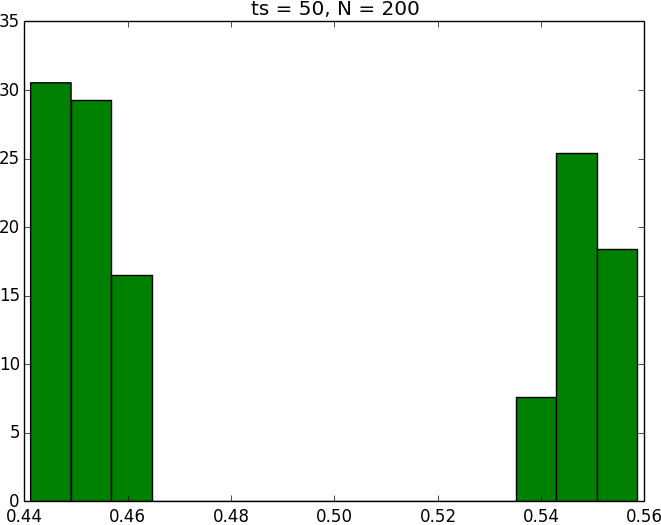
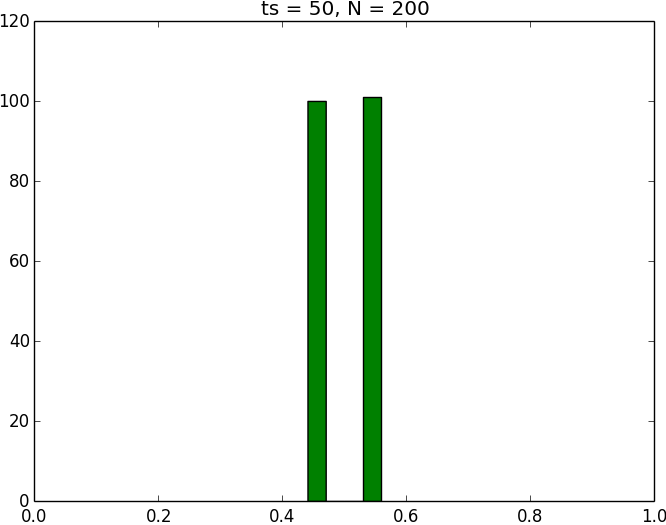
no message

diff --git a/Ficplay.py b/Ficplay.py
@@ -11,7 +11,7 @@ players = [0,1] # not used yet
 gamename = 'Matpenny'
 
 
-trials = 1001
+trials = 201
 current_x0 = random.uniform(0,1)
 current_x1 = random.uniform(0,1)
 
@@ -79,7 +79,7 @@ plt.close()
 ## plot the histogram and save the figure
 # make a list of x0(T-1)
 
-iter = 100
+iter = 200
 terminalx0 = []
 
 for j in range(iter + 1):
@@ -102,7 +102,9 @@ for j in range(iter + 1):
     terminalx0.append(x0_values[trials - 1])
 
 # plot the list in histogram
-n, bins, patches = plt.hist(terminalx0, 15, normed = 1)
+
+plt.xlim(0,1)
+n, bins, patches = plt.hist(terminalx0, 4)
 
 plt.title('ts = '+ str(trials - 1)+ ','+' N = '+ str(iter), color='k')
 

diff --git a/coordgame.py b/coordgame.py
@@ -110,6 +110,8 @@ for j in range(iter + 1):
     terminalx0.append(x0_values[trials - 1])
 
 # plot the list in histogram
+
+plt.xlim(0,1)
 n, bins, patches = plt.hist(terminalx0, 15, normed = 1)
 
 plt.title('ts = '+ str(trials - 1)+ ','+' N = '+ str(iter), color='k')
